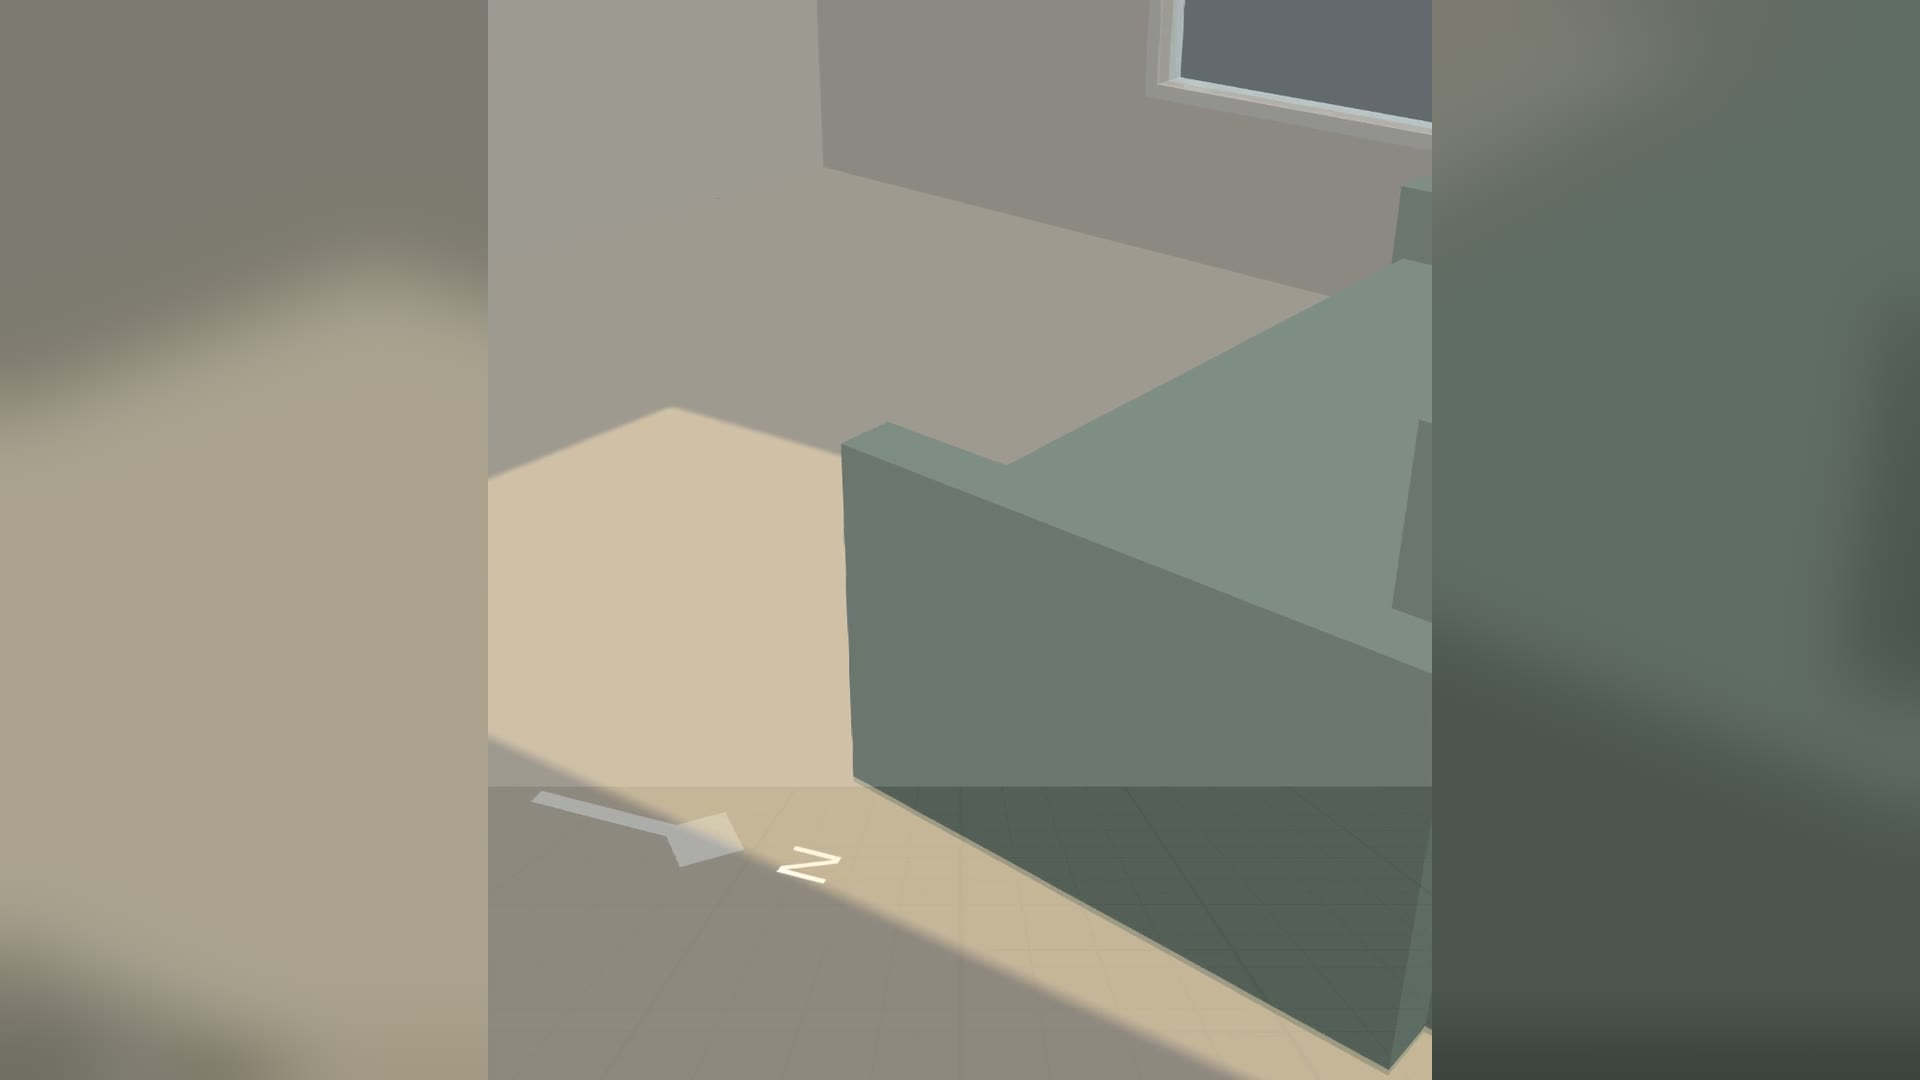
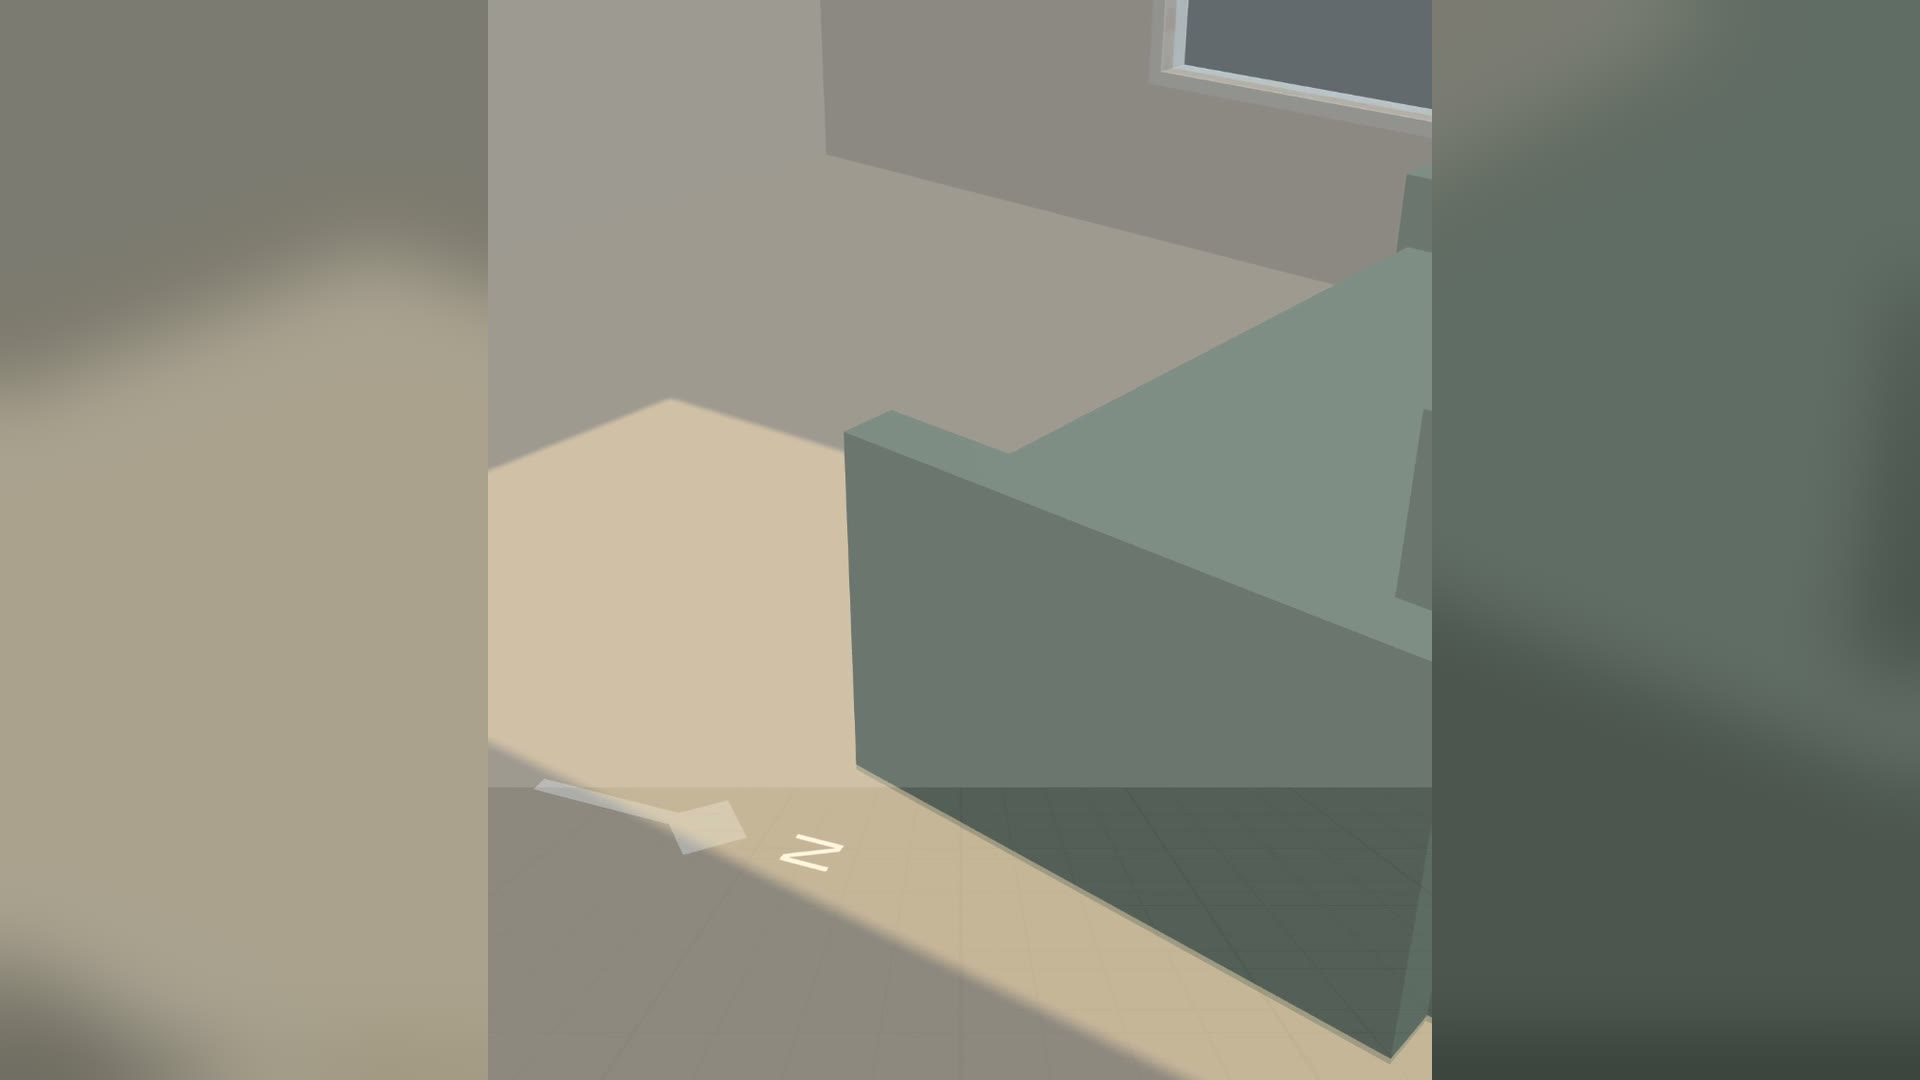
Gallery: Dec 21 light on the sofa seat; README video v4

diff --git a/README.md b/README.md
@@ -4,7 +4,7 @@
 
 A Lens for Snap Spectacles, built for *Learn AR with SPECS* (Devpost).
 
-**Demo video:** https://youtu.be/X2fWoiU7-nQ · **Devpost:** https://devpost.com/software/sunpatch-qgwhb7
+**Demo video:** https://youtu.be/5HDmLFhn6GA · **Devpost:** https://devpost.com/software/sunpatch-qgwhb7
 
 ## What it is
 
